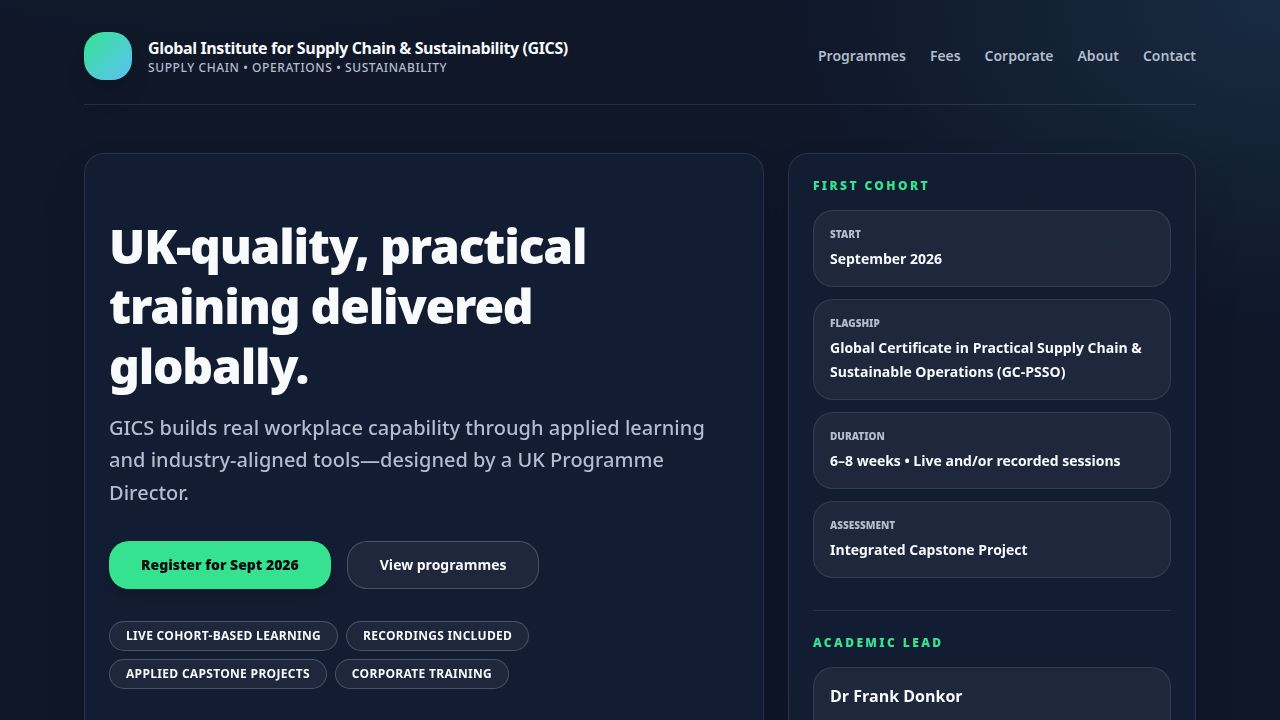
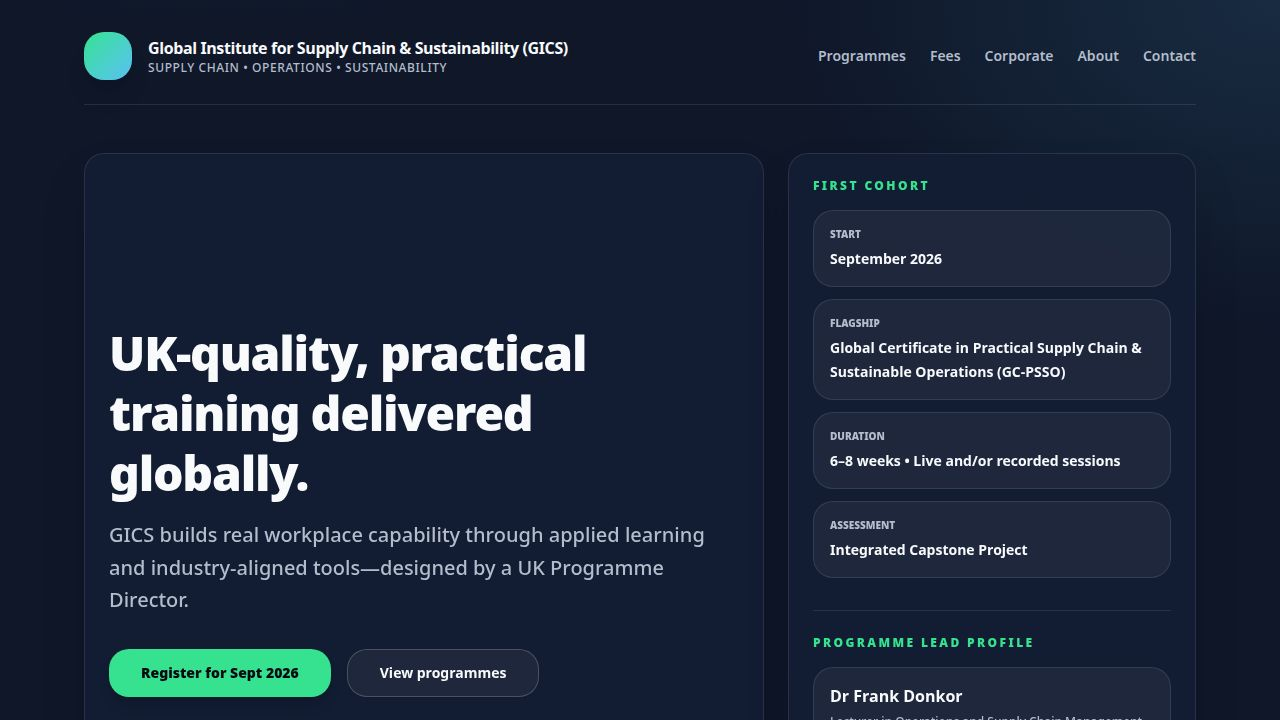
Update programme lead profile with detailed academic credentials and specialisms
Update the "Academic lead" section to "Programme Lead Profile" and add Dr. Frank Donkor's full credentials, specialisms, and professional affiliations.

Replit-Commit-Author: Agent
Replit-Commit-Session-Id: 26b899d5-5085-4d0e-a4a7-88fecedaf097
Replit-Commit-Checkpoint-Type: full_checkpoint
Replit-Commit-Event-Id: a827ee4f-fd91-4035-a854-4870c4d4c18b
Replit-Commit-Screenshot-Url: https://storage.googleapis.com/screenshot-production-us-central1/c08cfae2-fdc2-4c91-8740-330c73476e8e/26b899d5-5085-4d0e-a4a7-88fecedaf097/wDLjPrP
Replit-Helium-Checkpoint-Created: true

Changed region(s): [[0.0625, 0.3056, 0.5625, 0.7028], [0.0625, 0.7333, 0.5625, 0.9778], [0.625, 0.8861, 0.8125, 0.9167]]

diff --git a/client/src/pages/Home.tsx b/client/src/pages/Home.tsx
@@ -164,11 +164,35 @@ export default function Home() {
           </section>
 
           <section className="pt-6 border-t border-white/10">
-            <h3 className="text-xs font-black uppercase tracking-[0.2em] text-[hsl(var(--accent))] mb-4">Academic lead</h3>
-            <div className="p-4 bg-white/5 border border-white/10 rounded-xl">
-              <b className="text-foreground text-base block mb-2">Dr Frank Donkor</b>
-              <p className="text-xs text-muted-foreground leading-relaxed font-medium">
-                Programme Director, MSc Operations Management (University of Exeter). Expert in supply chain sustainability and operations leadership.
+            <h3 className="text-xs font-black uppercase tracking-[0.2em] text-[hsl(var(--accent))] mb-4">Programme Lead Profile</h3>
+            <div className="p-4 bg-white/5 border border-white/10 rounded-xl space-y-4">
+              <div>
+                <b className="text-foreground text-base block mb-1">Dr Frank Donkor</b>
+                <p className="text-xs text-muted-foreground leading-relaxed font-medium">
+                  Lecturer in Operations and Supply Chain Management and a Programme Director at the University of Exeter Business School. Fellow of The Higher Education Academy (UK) and an EduExe Fellow.
+                </p>
+              </div>
+              
+              <div className="space-y-2">
+                <p className="text-[10px] font-black uppercase text-muted-foreground tracking-widest">Specialisms</p>
+                <ul className="space-y-1.5">
+                  {[
+                    "Supply chain sustainability & ESG",
+                    "Operations management & performance",
+                    "Leadership in global supply chains",
+                    "Pharmaceutical industry collaboration",
+                    "Professional skills development"
+                  ].map((item) => (
+                    <li key={item} className="flex items-center gap-2 text-[10px] text-muted-foreground font-medium">
+                      <div className="w-1 h-1 rounded-full bg-[hsl(var(--accent))]" />
+                      {item}
+                    </li>
+                  ))}
+                </ul>
+              </div>
+
+              <p className="text-[10px] text-muted-foreground leading-relaxed italic border-t border-white/5 pt-3">
+                Foundation reflects UK executive education standards, remaining directly applicable to emerging-market supply chains.
               </p>
             </div>
           </section>
